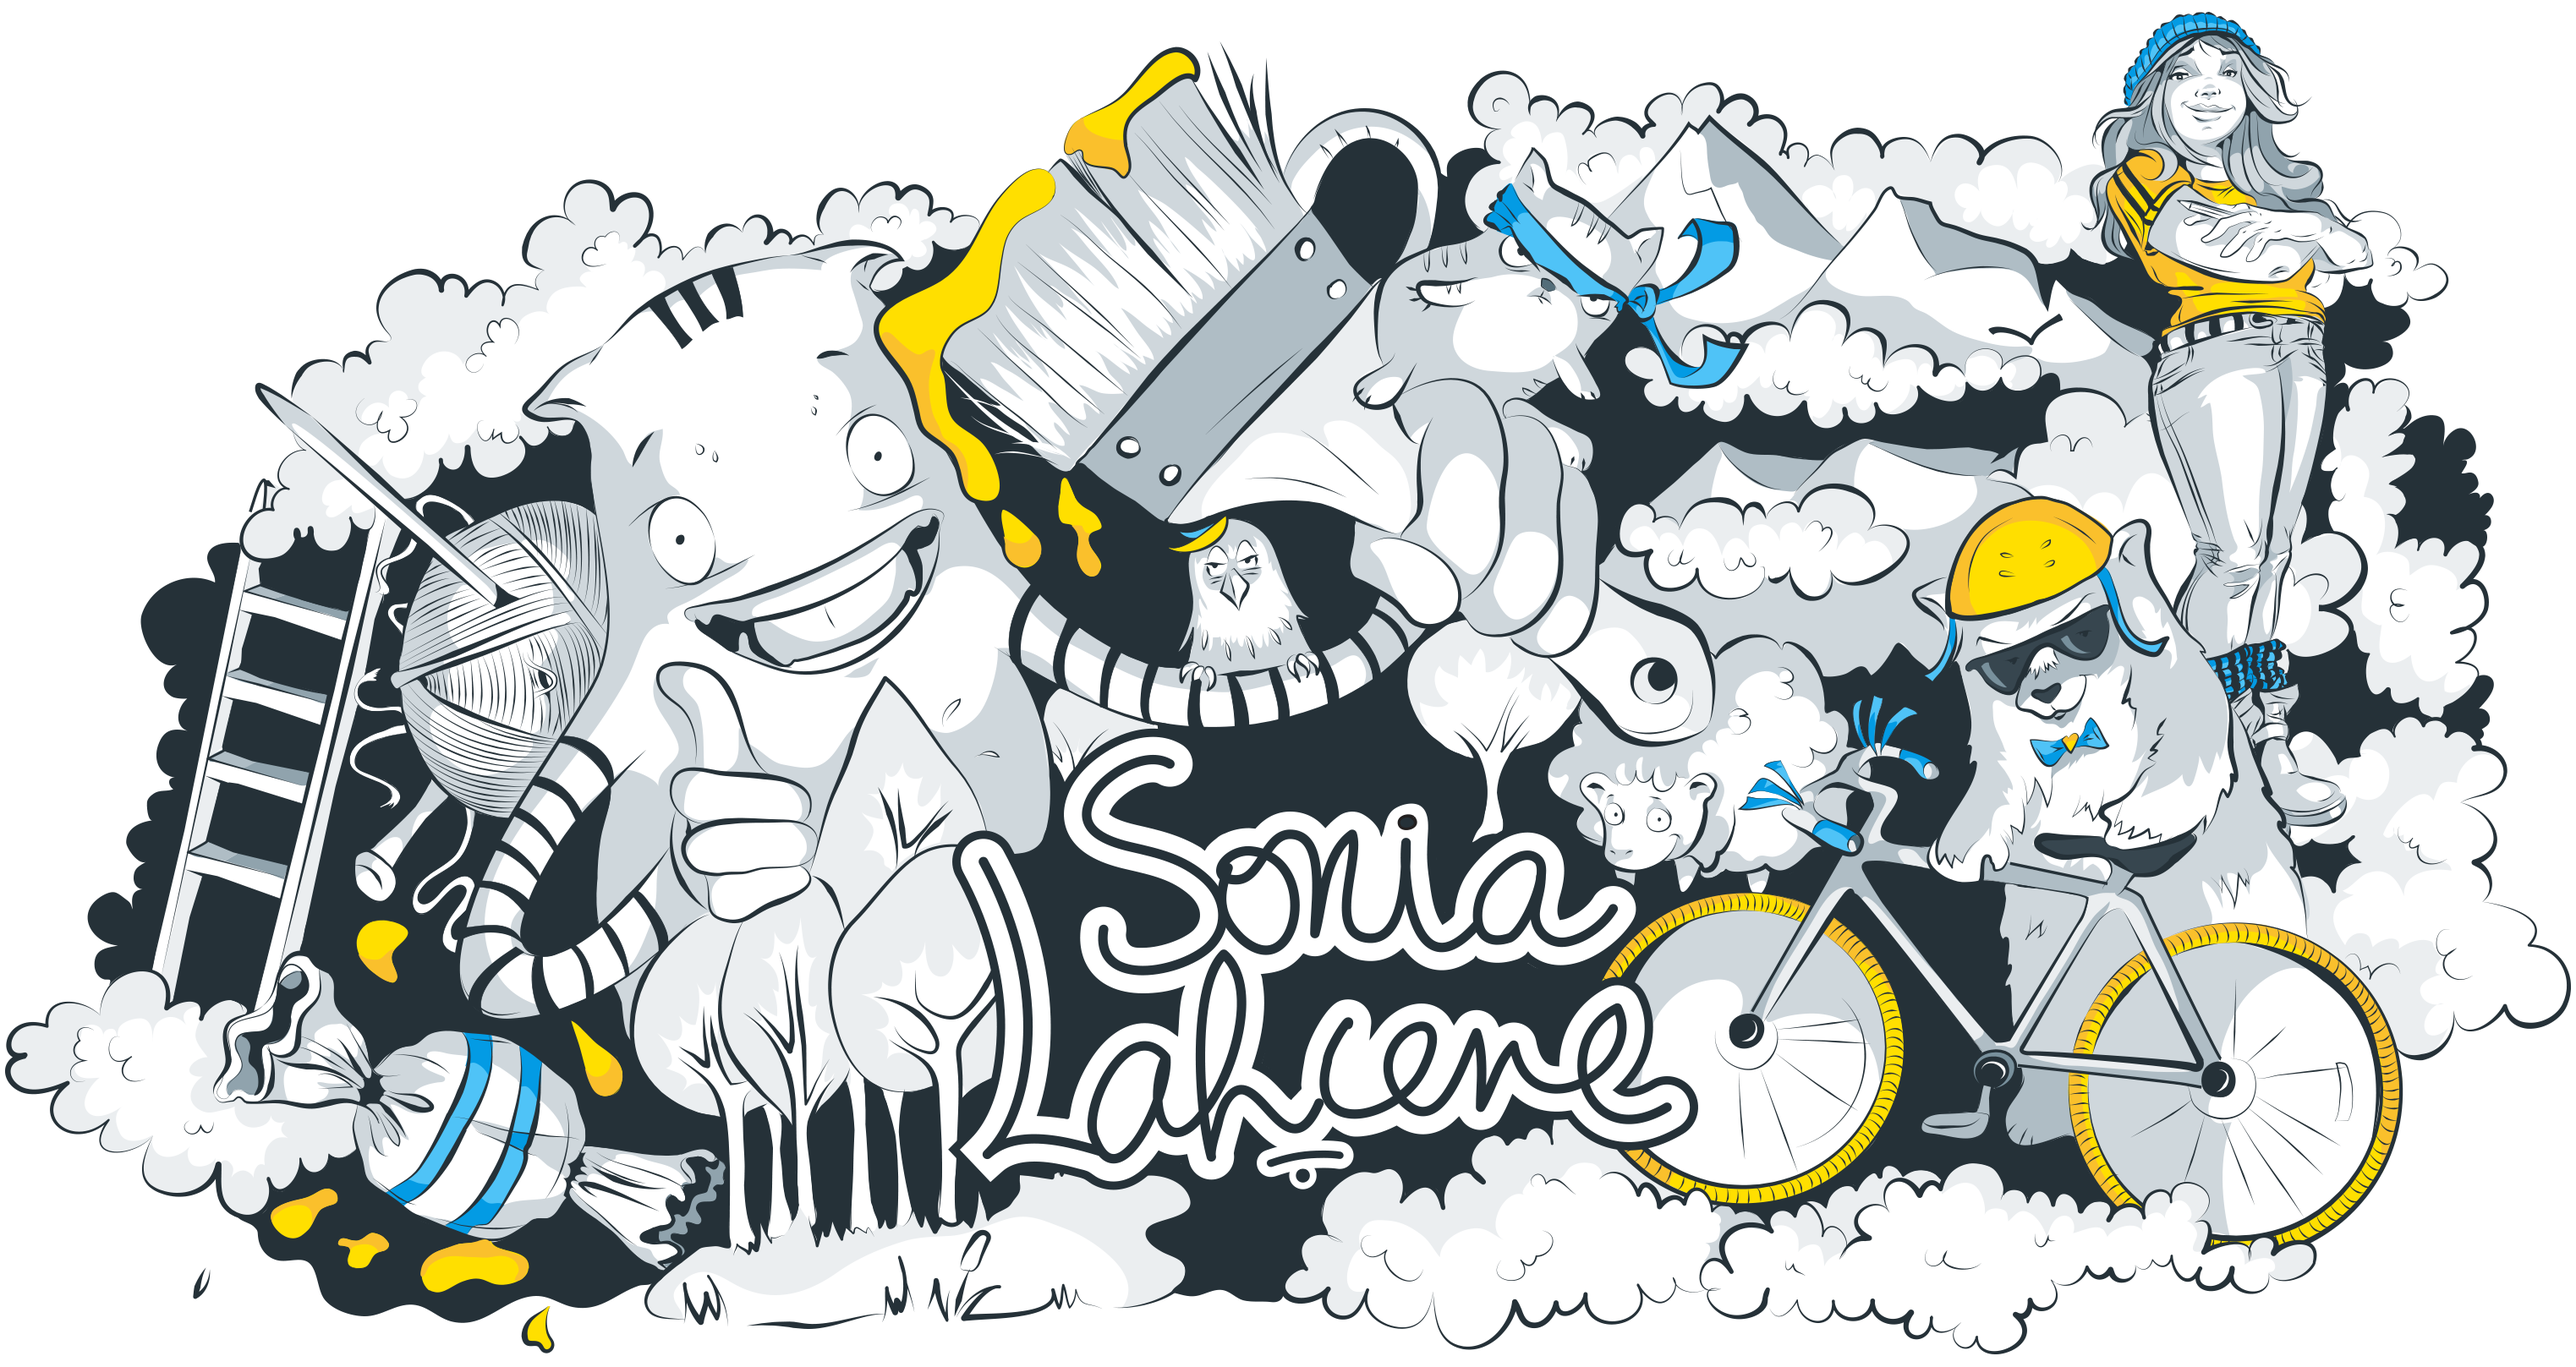
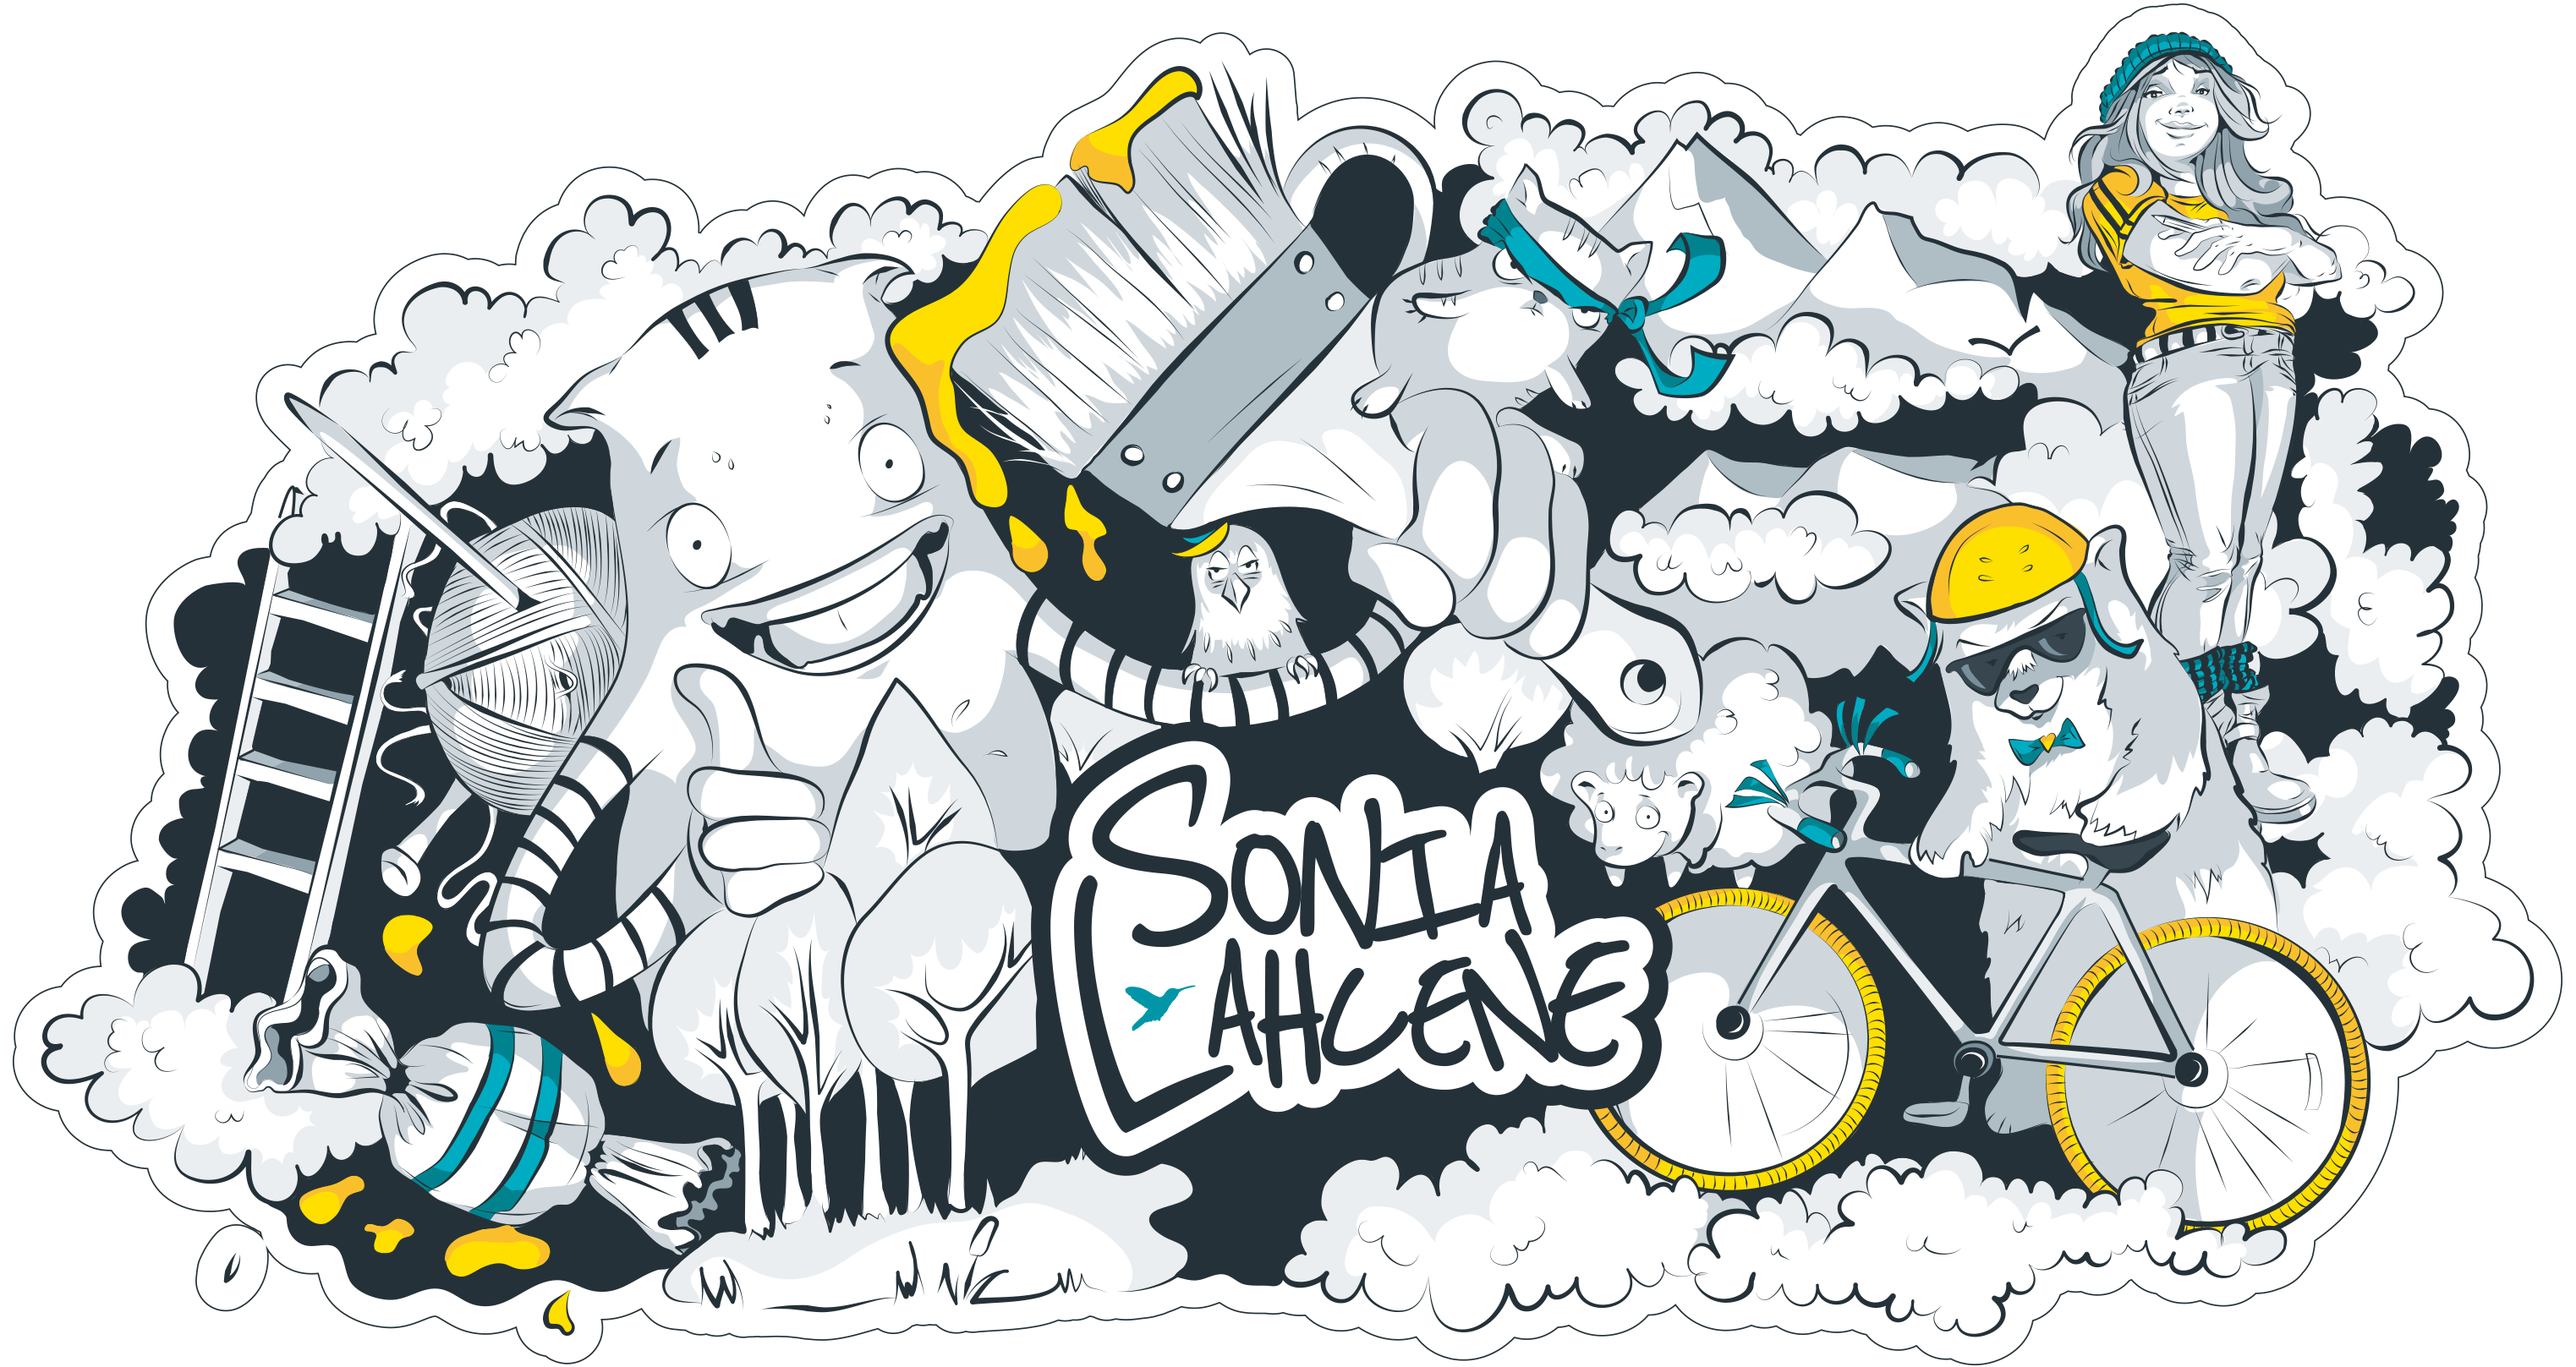
new doodle + new font

diff --git a/css/main.css b/css/main.css
@@ -8,19 +8,21 @@ html, button, input, select, textarea,
 
 body,
 #home {
-    background-color: #f5f5f5;
-    background-image: url('../assets/groovepaper-orange.png');
+    background-color: #FCF9F1;
+    /*background-image: url('../assets/groovepaper-orange.png');*/
     background-size: 300px 300px;
     background-repeat: repeat;
 }
 
 body {
-    color: #2D5E72;
+    color: #253137;
 }
 
 h2,
 h3 {
-    color: #4D7E91;
+    color: #0D6A90;
+    font-family: 'Reenie Beanie', cursive;
+    font-weight: bolder;
 }
 
 
@@ -42,7 +44,7 @@ h3 {
 
 .icon-colibri2 {
     font-size: 16px;
-    vertical-align: sub;
+    vertical-align: top;
     color: #36464e;
 }
 
@@ -62,27 +64,32 @@ header {
 }
 
 .pure-menu.pure-menu-open {
-    font-family: 'Quicksand', sans-serif;
-    font-weight: bold;
     background-color: #fdfdfd;
     border-bottom: #E9E9E9 1px solid;
     padding: 4px 0 4px 10px;
 }
 
+.sonial {    
+    font-family: 'Reenie Beanie', cursive;
+    font-size: 18px!important;
+    font-weight: bold;
+}
+
 .pure-menu a,
 .pure-menu .pure-menu-heading {
     white-space: normal;
-    color: #36464e;
-    font-family: 'Oswald', sans-serif;
+    color: #36464e;    
+    font-size: 100%;
 }
 
+
 .pure-menu .pure-menu-selected a {
-    color: #3D6474;
+    color: #0D6A90;
 }
 
 .pure-menu li a {
     padding: 0 10px 0 10px;
-    color: #89A1A8;
+    color: #0A8ABE;
 }
 
 .pure-menu li a:hover {
@@ -287,7 +294,7 @@ So the menu does not hide the section when you click on about
 }
 
 .date {
-    color: #4D7E91;
+    color: #36464e;
     font-weight: bold;
 }
 
@@ -314,7 +321,7 @@ So the menu does not hide the section when you click on about
 div.icon-contact {
     font-size: 45px;
     margin: 0 8px;
-    color: #4D7E91;
+    color: #0D6A90;
     padding: 0 10px 0 0;
     display: inline-block;
 }
@@ -329,21 +336,22 @@ div.icon-contact {
 .about p a,
 .work-done li a,
 .contact p a {
-    color: #649EB4;
+    color: #253137;
     text-decoration: none;
+    font-weight: 500;
 }
 
 .about p a:hover,
 .work-done li a:hover,
 .contact p a:hover {
-    color: #4D7E91;
+    color: #536d79;
 }
 
 .contact p a.icon-tumblr,
 .contact p a.icon-email,
 .contact p a.icon-linkdn,
 .contact p a.icon-cv {
-    color: #4D7E91;
+    color: #36464e;
     vertical-align: text-bottom;
     font-size: 1.3em;
     text-decoration: none;
@@ -354,7 +362,7 @@ div.icon-contact {
 .contact p a.icon-email:hover,
 .contact p a.icon-linkdn:hover,
 .contact p a.icon-cv:hover {
-    color: #649EB4;
+    color: #536d79;
 }
 
 .contact-script {
@@ -369,19 +377,20 @@ footer {
 footer {
     border-top: #E9E9E9 1px solid;
     background-color: #fdfdfd;
-    font-family: 'Quicksand', sans-serif;
+    font-family: 'Reenie Beanie', cursive;
     text-align: left;
     font-size: 12px;
+    font-weight: bold;
 }
 
 footer a {
-    color: #4D7E91;
+    color: #36464e;
     text-decoration: none;
     font-weight: bolder;
 }  
 
 footer a:hover {
-    color: #649EB4;
+    color: #536d79;
 }
 
 p.rights {
@@ -514,8 +523,8 @@ only screen and (                min-resolution: 192dpi),
 only screen and (                min-resolution: 2dppx) { 
     /* Retina-specific stuff here */
     body {
-        background-image: url('../assets/groovepaper-orange@2x.png');
-    }
+/*        background-image: url('../assets/groovepaper-orange@2x.png');
+*/    }
 
     #doodle {
         background-image: url('../assets/site_doodle@2x.png');

diff --git a/css/cv.css b/css/cv.css
@@ -26,7 +26,7 @@ a {
 	text-transform: uppercase;
 	margin-bottom: 2px;
 	margin-top: 20px;
-	font-family: 'Quicksand', sans-serif;
+	font-family: 'Poiret One', cursive;
 }
 
 .job-cv {
@@ -34,7 +34,7 @@ a {
 	color: #E2A100;
 	margin-top: 0;
 	margin-bottom: 5px;
-	font-family: 'Quicksand', sans-serif;
+	font-family: 'Poiret One', cursive;
 }
 
 .subtitle-cv {
@@ -69,11 +69,11 @@ a {
 }
 
 .contact-cv li a {
-	color: #4D7E91; 
+	color: #36464e; 
 }
 
 .contact-cv li a:hover {
-	color: #649EB4; 
+	color: #536d79; 
 }
 
 /*end header*/
@@ -86,7 +86,7 @@ a {
 	padding-left: 1.8em;
 	padding-right: 4.8em;
 	line-height: 25px;
-	font-family: 'Quicksand', sans-serif;
+	font-family: 'Poiret One', cursive;
 }
 
 
@@ -95,13 +95,13 @@ a {
 .job-title {
 	margin:0;
 	font-size: 15px;
-	color: #2D5E72;
+	color: #36464e;
 }
 
 .job-location {
 	margin: 0;
 	font-size: 15px;
-	color: #2D5E72;
+	color: #36464e;
 	font-weight: normal;
 }
 
@@ -113,7 +113,7 @@ a {
 	-o-box-shadow: 1px 1px 3px rgba(40, 92, 102, 0.15);
 	box-shadow: 1px 1px 3px rgba(40, 92, 102, 0.15);
 	font-size: 14px;
-	color: #4D7E91;
+	color: #36464e;
 	padding: 12px 16px 12px 12px;
 	margin-bottom: 10px;
 	max-width: 410px;
@@ -134,7 +134,7 @@ a {
 }
 
 .job-now li a{
-	color: #4D7E91;
+	color: #36464e;
 }
 
 #skills,
@@ -169,7 +169,7 @@ a {
 	position: absolute;
 	top: 10px;
 	right: 7px;
-	color: #4D7E91;
+	color: #36464e;
 	font-weight: bolder;
 	display: inline-block;
 	font-size: 14px;

diff --git a/index.html b/index.html
@@ -62,7 +62,7 @@
         <!--<![endif]-->
         <link rel="stylesheet" href="//cdn.jsdelivr.net/jquery.magnific-popup/0.9.9/magnific-popup.css">
         <link rel="stylesheet" href="css/vectorfont.css">
-        <link href='http://fonts.googleapis.com/css?family=Quicksand:300,400|Maven+Pro:400,500|Oswald' rel='stylesheet' type='text/css'>
+        <link href='http://fonts.googleapis.com/css?family=Quicksand:300,400|Maven+Pro:400,500|Oswald:400,300,700|Reenie+Beanie' rel='stylesheet' type='text/css'>
         <link rel="stylesheet" href="css/main.css">
 
         <script src="js/vendor/modernizr-2.6.2-respond-1.1.0.min.js"></script>
@@ -291,7 +291,7 @@
                 </section>
             </main>
             <footer>
-                <p class="rights"><span style="color:#4D7E91;"> SONIA LAHCENE GRAPHIC DESIGN</span> &copy;2014 - All rights reserved</p>
+                <p class="rights">SONIA LAHCENE GRAPHIC DESIGN &copy;2014 - All rights reserved</p>
                 <p class="squeezer">Developed by <a href="https://www.linkedin.com/in/fabiendemangeat/en" target="blank" title="LinkedIn Fabien Demangeat">Fabien Demangeat</a> and myself</p>
                 <a href="https://www.linkedin.com/in/fabiendemangeat/en" target="blank" title="LinkedIn Fabien Demangeat" class="icon-squeezer"></a>
             </footer>

diff --git a/cv.html b/cv.html
@@ -62,7 +62,7 @@
         <!--<![endif]-->
         <link rel="stylesheet" href="//cdn.jsdelivr.net/jquery.magnific-popup/0.9.9/magnific-popup.css">
         <link rel="stylesheet" href="css/vectorfont.css">
-        <link href='http://fonts.googleapis.com/css?family=Quicksand:300,400|Maven+Pro:400,500' rel='stylesheet' type='text/css'>
+        <link href='http://fonts.googleapis.com/css?family=Quicksand:300,400|Maven+Pro:400,500|Poiret+One' rel='stylesheet' type='text/css'>
         <link rel="stylesheet" href="css/cv.css">
         <link rel="stylesheet" href="css/main.css">
 
@@ -314,7 +314,7 @@
             </main>
 
             <footer>
-                <p class="rights"><span style="color:#4D7E91;"> SONIA LAHCENE GRAPHIC DESIGN</span> &copy;2014 - All rights reserved</p>
+                <p class="rights">SONIA LAHCENE GRAPHIC DESIGN &copy;2014 - All rights reserved</p>
                 <p class="squeezer">Developed by <a href="https://www.linkedin.com/in/fabiendemangeat/en" target="blank" title="LinkedIn Fabien Demangeat">Fabien Demangeat</a> and myself</p>
                 <a href="https://www.linkedin.com/in/fabiendemangeat/en" target="blank" title="LinkedIn Fabien Demangeat" class="icon-squeezer"></a>
             </footer>
